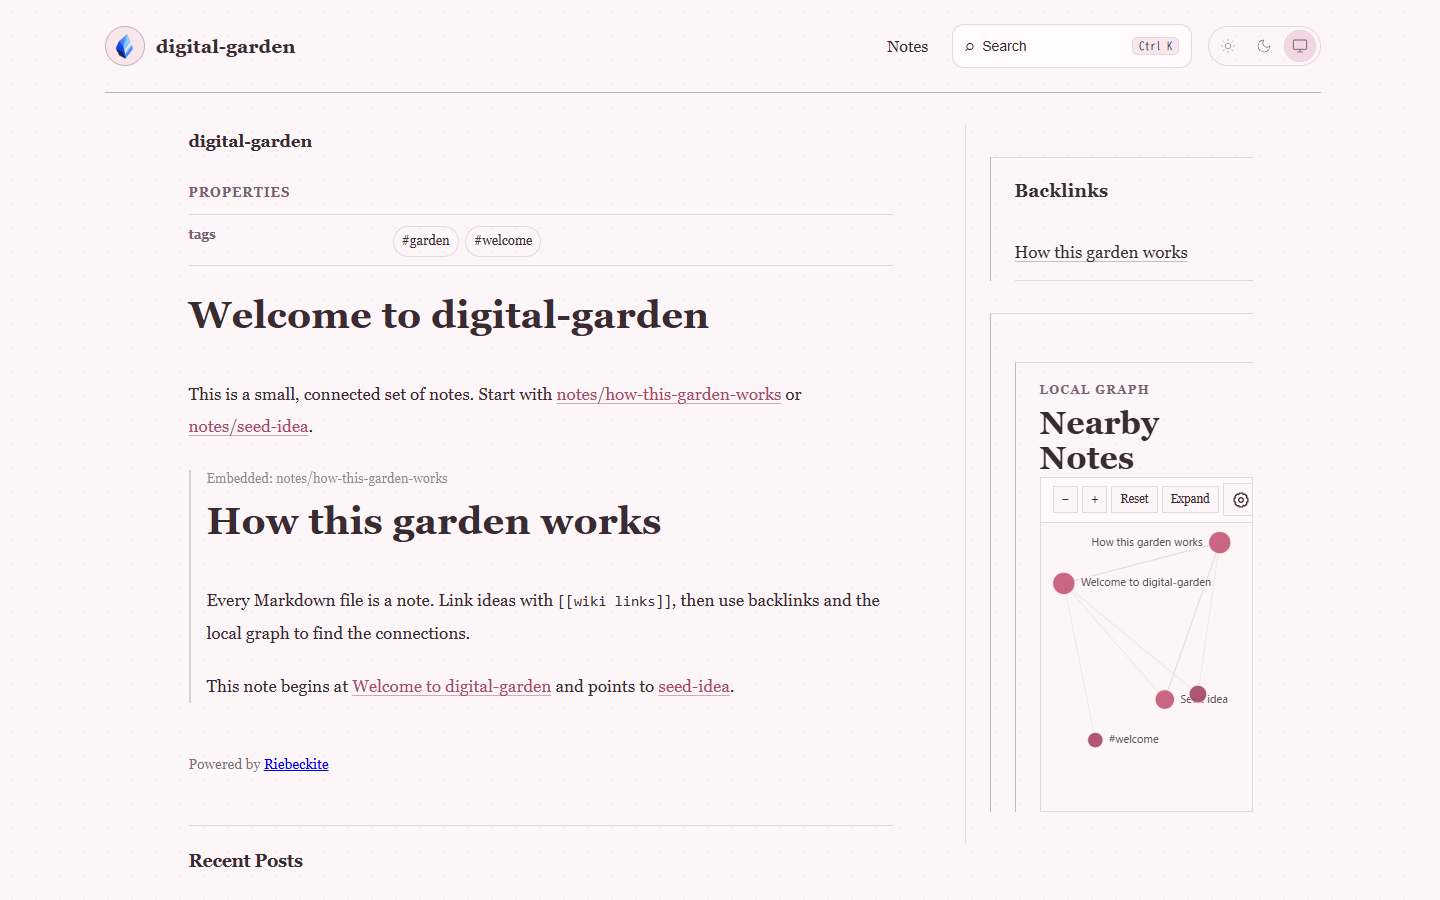
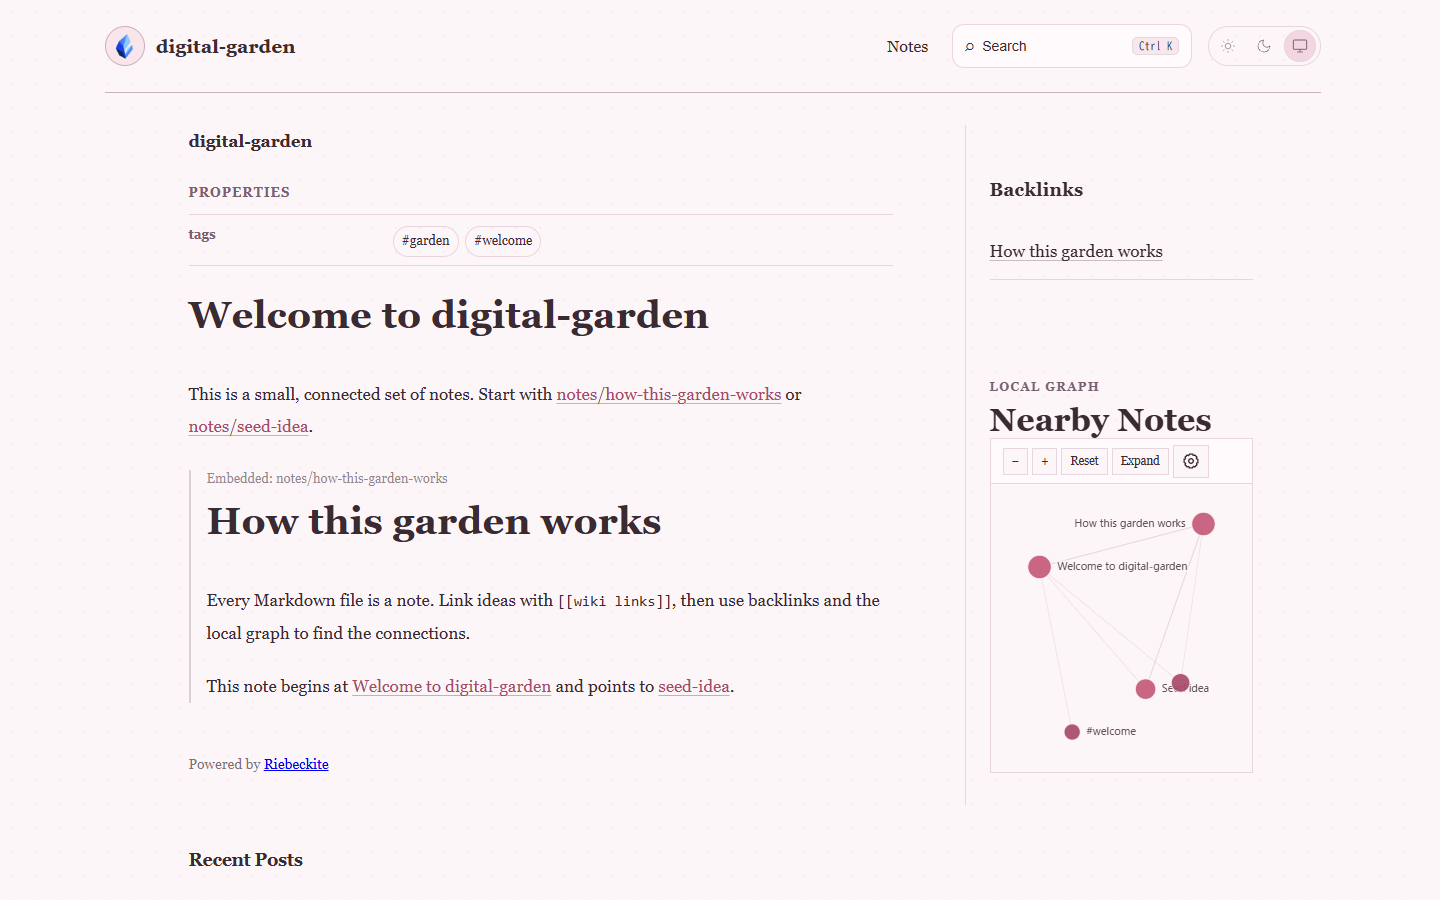
デジタルガーデンのサイドバーボーダーを修正しスクリーンショットを更新

diff --git a/packages/create-riebeckite/templates/scaffold/presets/digital-garden/app/styles/article.css b/packages/create-riebeckite/templates/scaffold/presets/digital-garden/app/styles/article.css
@@ -49,4 +49,9 @@
     border-block-start: 0;
     border-inline-start: 1px solid var(--rb-color-border);
   }
+
+  .site-article .site-article__aside :is(.rr-backlinks, .rr-local-graph) {
+    border-left: 0;
+    padding-left: 0;
+  }
 }
